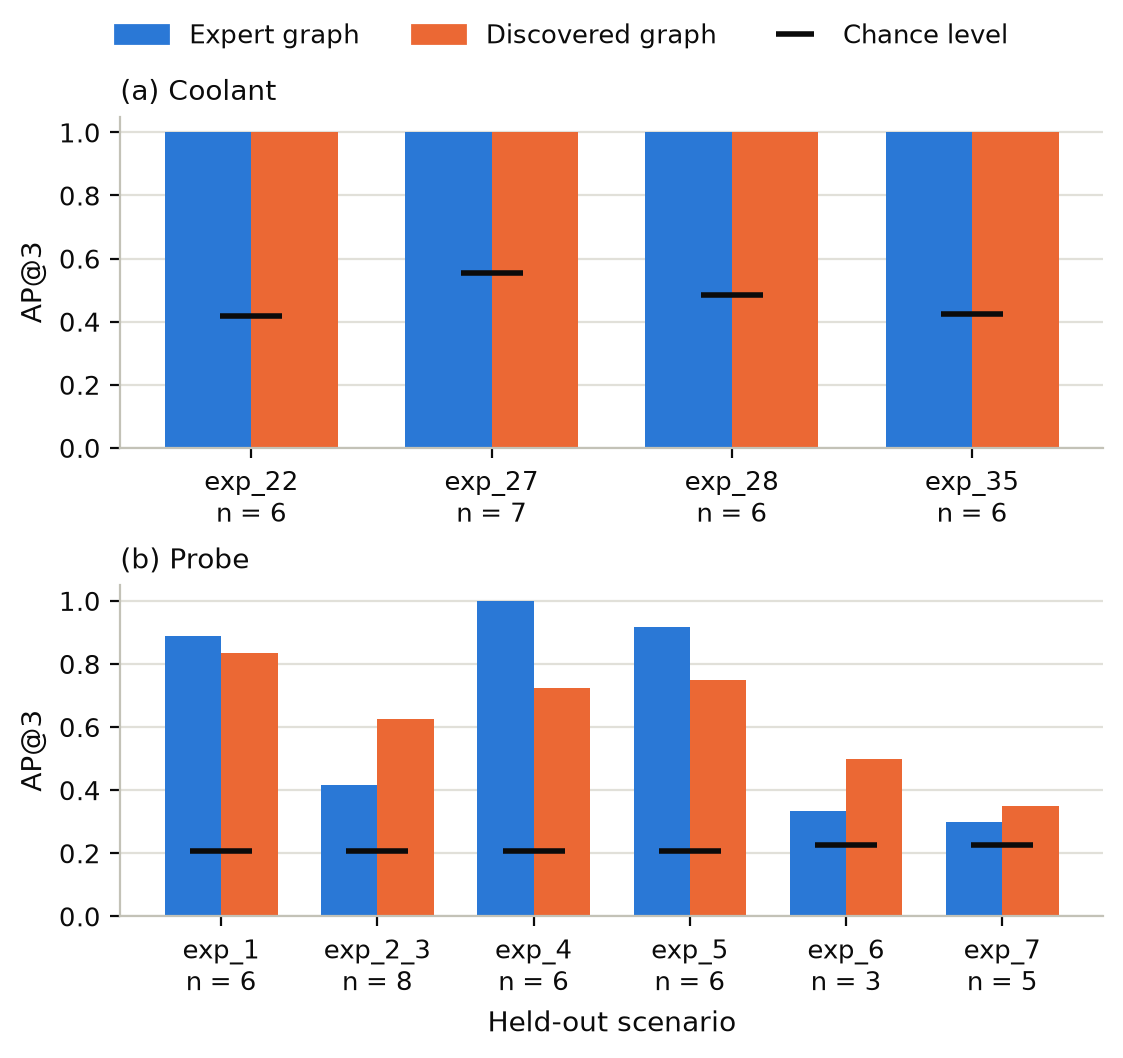
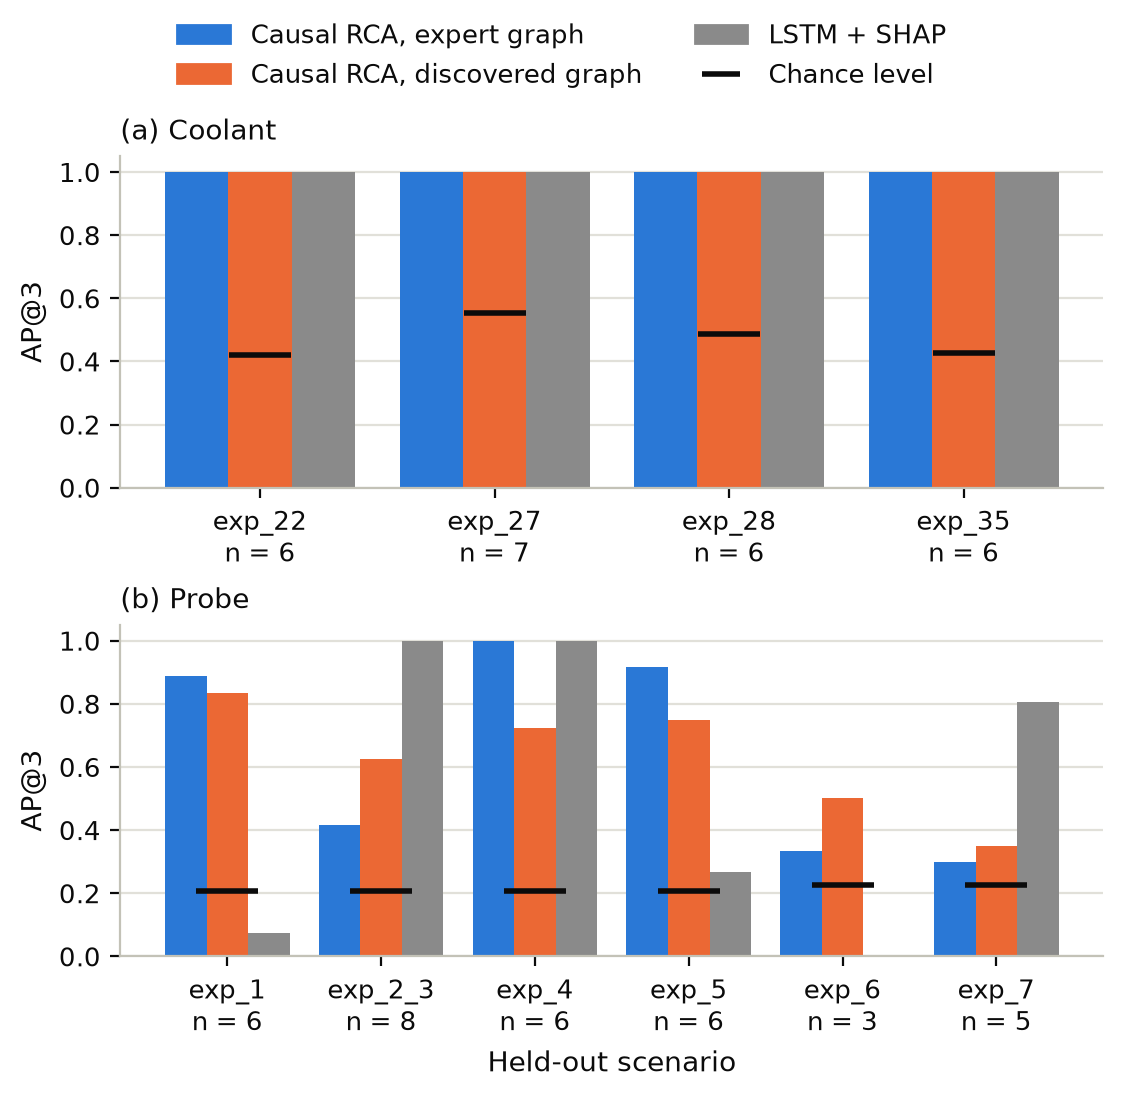
Thesis figures with the LSTM+SHAP baseline; fix scenario-mean value in description

Changed region(s): [[0.0, 0.0, 0.9662, 0.9981], [0.0, 0.1248, 0.1247, 0.4679], [0.0312, 0.6238, 0.1247, 0.655]]

diff --git a/scripts/thesis_figures.py b/scripts/thesis_figures.py
@@ -35,6 +35,7 @@ TABLES = data.RESULTS_DIR / "tables"
 GRAPHS = ("expert", "discovered")
 GRAPH_COLORS = {"expert": ev.COLORS[0], "discovered": ev.COLORS[1]}
 GRAPH_LABELS = {"expert": "Expert graph", "discovered": "Discovered graph"}
+BASELINE_COLOR = "#8A8A8A"          # grey for the non-causal baseline
 CF_ENTROPY = 20261109        # independent stream of stage 14 and 15
 CF_BATCHES = (10, 200)       # 2,000 simulations in 10 batches, as in stages 14 and 15
 EXAMPLE_RUN = "coolant_exp_22_run_1"
@@ -336,7 +337,9 @@ def figure_surprise(s: dict, model: sc.TemporalSCM) -> None:
 
 def figure_rca() -> None:
     per = pd.read_csv(TABLES / f"{STAGE}_rca_per_scenario.csv")
-    fig, axes = plt.subplots(2, 1, figsize=(WIDTH, 5.2), layout="constrained",
+    # lstm + shap baseline (stage 16, main explanation variant), averaged over seeds per run, then per scenario
+    lstm = pd.read_csv(TABLES / "16_lstm_shap_per_scenario.csv")
+    fig, axes = plt.subplots(2, 1, figsize=(WIDTH, 5.4), layout="constrained",
                              gridspec_kw={"height_ratios": [1, 1]})
     for ax, sub in zip(axes, ("coolant", "probe")):
         d = per[per.subsystem == sub]
@@ -344,7 +347,9 @@ def figure_rca() -> None:
         x = np.arange(len(folds))
         for k, g in enumerate(GRAPHS):
             v = d[d.graph == g].set_index("fold").loc[folds]
-            ax.bar(x + (k - 0.5) * 0.36, v.ap3, width=0.36, color=GRAPH_COLORS[g])
+            ax.bar(x + (k - 1) * 0.27, v.ap3, width=0.27, color=GRAPH_COLORS[g])
+        b = lstm[lstm.subsystem == sub].set_index("fold").loc[folds]
+        ax.bar(x + 0.27, b["ap@3"], width=0.27, color=BASELINE_COLOR)
         e = d[d.graph == "expert"].set_index("fold").loc[folds]
         ax.scatter(x, e.chance_ap3, marker="_", s=500, linewidths=2, color=ev.INK["primary"], zorder=3)
         ax.set_xticks(x, scenario_ticks(folds, e.runs))
@@ -353,11 +358,30 @@ def figure_rca() -> None:
         ax.set_ylabel("AP@3")
         ax.set_title(f"({'ab'[('coolant', 'probe').index(sub)]}) {sub.capitalize()}", loc="left")
     axes[1].set_xlabel("Held-out scenario")
-    handles = [Patch(color=GRAPH_COLORS[g], label=GRAPH_LABELS[g]) for g in GRAPHS]
+    handles = [Patch(color=GRAPH_COLORS[g], label=f"Causal RCA, {GRAPH_LABELS[g].lower()}") for g in GRAPHS]
+    handles.append(Patch(color=BASELINE_COLOR, label="LSTM + SHAP"))
     handles.append(Line2D([], [], marker="_", markersize=14, markeredgewidth=2, linestyle="", color=ev.INK["primary"],
                           label="Chance level"))
-    top_legend(fig, handles, 3)
+    top_legend(fig, handles, 2)
     save(fig, "rca_per_scenario")
+
+
+def figure_shap_example() -> None:
+    """shap attribution of the lstm anomaly score in one probe run (fixed rule: first run of exp_1, seed 0)."""
+    imp = pd.read_csv(TABLES / "16_lstm_shap_importance.csv")
+    rid = sorted(imp[(imp.subsystem == "probe") & (imp.fold == "exp_1")].recording_id.unique())[0]
+    d = imp[(imp.recording_id == rid) & (imp.seed == 0)].sort_values("importance")
+    fig, ax = plt.subplots(figsize=(WIDTH, 3.3), layout="constrained")
+    ax.barh([tex_free(v) for v in d.variable], d.importance,
+            color=[ev.COLORS[1] if c else ev.COLORS[0] for c in d.is_cause])
+    ax.set_xlabel("Summed absolute SHAP value of the anomaly score")
+    ax.grid(axis="y", visible=False)
+    top_legend(fig, [Patch(color=ev.COLORS[1], label="Injected cause"), Patch(color=ev.COLORS[0], label="Other candidate")], 2)
+    save(fig, "shap_example")
+
+
+def tex_free(v: str) -> str:
+    return v
 
 
 # ---------------------------------------------------------------------------
@@ -553,6 +577,7 @@ if __name__ == "__main__":
     figure_scm()
     figure_surprise(s, model)
     figure_rca()
+    figure_shap_example()
     figure_interventions()
     figure_cf_example(s, model)
     figure_counterfactuals()

diff --git a/results/16_lstm_shap_baseline.md b/results/16_lstm_shap_baseline.md
@@ -101,7 +101,7 @@ For comparison, on the same normal validation data the selected SCM reaches 0.01
 | | **LSTM + SHAP** | **1.00** | **1.00** | **1.00** |
 | Probe | Causal RCA, expert graph | 0.62 | **0.67** | **0.64** |
 | | Causal RCA, discovered graph | **0.65** | 0.65 | 0.63 |
-| | **LSTM + SHAP** | 0.56 | 0.59 | 0.53 |
+| | **LSTM + SHAP** | 0.56 | 0.59 | 0.52 |
 | | Chance | 0.14 | 0.21 | 0.21 |
 
 Seed spread of LSTM + SHAP on probe: MAP@3 0.53 to 0.62. Top-1 is 0.56 in every seed.
